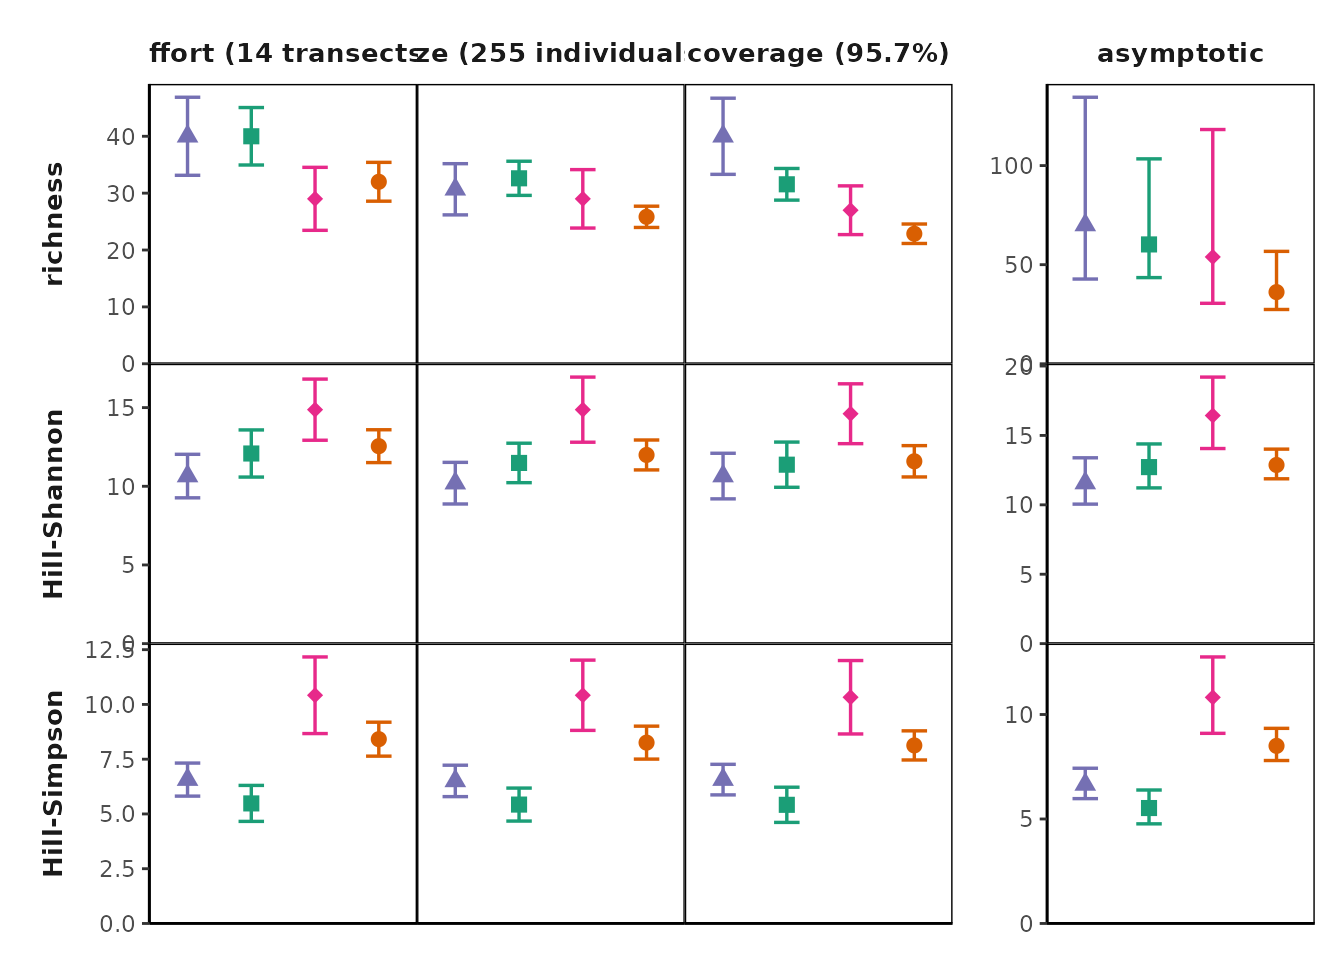
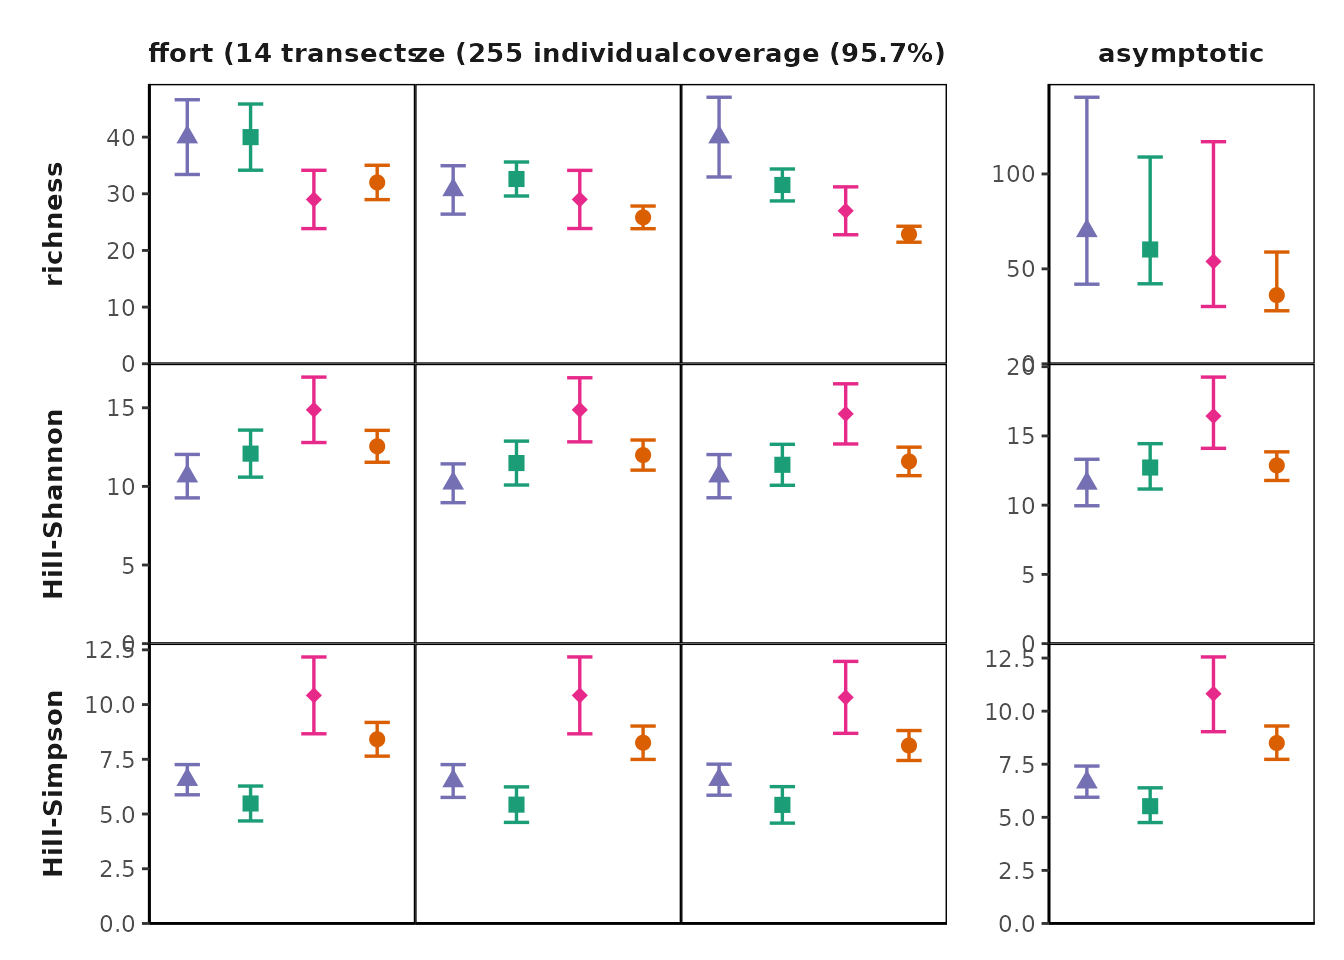
Built site for MeanRarity: 0.0.1.0003@71b6fa0

diff --git a/articles/Using_MeanRarity.html b/articles/Using_MeanRarity.html
@@ -303,16 +303,16 @@ fit_SAD--></p>
 <span class="va">uneven_sample</span> <span class="op">&lt;-</span> <span class="fu"><a href="../reference/sample_infinite.html">sample_infinite</a></span><span class="op">(</span><span class="va">uneven_SAD</span><span class="op">$</span><span class="va">rel_abundances</span>, <span class="fl">50</span><span class="op">)</span>
 <span class="co">#sample_infinite returns a numeric vector of sample species abundances</span>
 <span class="va">even_sample</span>
-<span class="co">#&gt;  [1] 8 6 5 3 3 3 5 2 5 1 2 2 1 2 2 0 0 0 0 0</span>
+<span class="co">#&gt;  [1] 11  5  8  3  4  1  0  3  3  2  1  1  1  0  0  1  1  2  1  2</span>
 <span class="va">uneven_sample</span>
-<span class="co">#&gt;  [1] 16  7  7 11  3  0  0  0  1  1  1  2  0  1  0  0  0  0  0  0</span>
+<span class="co">#&gt;  [1] 13 13  4  5  1  3  0  5  0  3  0  0  1  0  2  0  0  0  0  0</span>
 
 <span class="co"># we can compare evenness (given a scaling parameter `l`)</span>
 <span class="co"># the evenness is the normalized ratio of an arbitrary Hill diversity to richness</span>
 <span class="fu"><a href="../reference/e3Fun.html">e3Fun</a></span><span class="op">(</span><span class="va">even_sample</span>, <span class="op">-</span><span class="fl">1</span><span class="op">)</span>
-<span class="co">#&gt; [1] 0.7257653</span>
+<span class="co">#&gt; [1] 0.5119485</span>
 <span class="fu"><a href="../reference/e3Fun.html">e3Fun</a></span><span class="op">(</span><span class="va">uneven_sample</span>, <span class="op">-</span><span class="fl">1</span><span class="op">)</span>
-<span class="co">#&gt; [1] 0.4534779</span>
+<span class="co">#&gt; [1] 0.5379024</span>
 
 <span class="co"># compare diversity from sample vs. ideal SAD:</span>
 <span class="co"># likely pretty far off for a small sample!</span>
@@ -325,7 +325,7 @@ fit_SAD--></p>
   <span class="fu"><a href="../reference/rarity.html">rarity</a></span><span class="op">(</span><span class="va">even_sample</span>, <span class="va">l</span><span class="op">)</span>
 <span class="op">}</span><span class="op">)</span><span class="op">)</span>
 <span class="co">#&gt;      [,1] [,2]     [,3]    </span>
-<span class="co">#&gt; [1,] 15   12.74438 11.16071</span>
+<span class="co">#&gt; [1,] 17   12.17032 9.191176</span>
 
 <span class="co"># with an uneven SAD, sample Hill-Simpson can be higher than true Hill-Simpson</span>
 <span class="co"># richness is always lower</span>
@@ -336,7 +336,7 @@ fit_SAD--></p>
   <span class="fu"><a href="../reference/rarity.html">rarity</a></span><span class="op">(</span><span class="va">uneven_sample</span>, <span class="va">l</span><span class="op">)</span>
 <span class="op">}</span><span class="op">)</span><span class="op">)</span>
 <span class="co">#&gt;      [,1] [,2]     [,3]    </span>
-<span class="co">#&gt; [1,] 10   6.415777 5.081301</span>
+<span class="co">#&gt; [1,] 10   7.285593 5.841121</span>
 
 
 <span class="va">big_even_sample</span> <span class="op">&lt;-</span> <span class="fu"><a href="../reference/sample_infinite.html">sample_infinite</a></span><span class="op">(</span><span class="va">even_SAD</span><span class="op">$</span><span class="va">rel_abundances</span>, <span class="fl">1e7</span><span class="op">)</span>
@@ -350,7 +350,7 @@ fit_SAD--></p>
   <span class="fu"><a href="../reference/rarity.html">rarity</a></span><span class="op">(</span><span class="va">big_even_sample</span>, <span class="va">l</span><span class="op">)</span>
 <span class="op">}</span><span class="op">)</span><span class="op">)</span>
 <span class="co">#&gt;      [,1] [,2]     [,3]    </span>
-<span class="co">#&gt; [1,] 20   15.12344 12.00435</span></code></pre></div>
+<span class="co">#&gt; [1,] 20   15.11859 11.99533</span></code></pre></div>
 <p>For any distribution of relative abundances, one can ask, “what is the Hill diversity of this distribution?” Yet the answer, of course, depends on the chosen value of the scaling parameter <span class="math inline">\(\ell\)</span>. For a comprehensive answer, one might look across values of <span class="math inline">\(\ell\)</span>, also known as a Hill “diversity profile” <span class="citation">(Chao et al. 2014)</span>. <code>MeanRarity</code> provides a function to generate a Hill diversity profile based on <span class="math inline">\(\ell\)</span> (rather than <span class="math inline">\(q\)</span>): <code><a href="../reference/divpro.html">divpro()</a></code>. <!-- these should be on a single plot, will be much more interesting that way!--></p>
 <div class="sourceCode" id="cb8"><pre class="downlit sourceCode r">
 <code class="sourceCode R"><span class="co"># the even and uneven communities have same richness but different Hill diversity when `ell != 1`</span>

diff --git a/reference/Chao_Hill_abu.html b/reference/Chao_Hill_abu.html
@@ -110,11 +110,11 @@ ISSN 2041210X, doi: <a href="https://doi.org/10.1111/2041-21" class="external-li
 <span class="r-in"></span>
 <span class="r-in"><span class="co"># estimate true Hill diversity</span></span>
 <span class="r-in"><span class="fu">Chao_Hill_abu</span><span class="op">(</span><span class="va">abs</span>, l <span class="op">=</span> <span class="fl">1</span><span class="op">)</span> <span class="co"># Chao1 estimate of richness lower bound</span></span>
-<span class="r-out co"><span class="r-pr">#&gt;</span> [1] 46.94</span>
+<span class="r-out co"><span class="r-pr">#&gt;</span> [1] 40.62545</span>
 <span class="r-in"><span class="fu">Chao_Hill_abu</span><span class="op">(</span><span class="va">abs</span>, l <span class="op">=</span> <span class="fl">0</span><span class="op">)</span> <span class="co"># Asymptotic estimate of Hill-Shannon diversity</span></span>
-<span class="r-out co"><span class="r-pr">#&gt;</span> [1] 29.6443</span>
+<span class="r-out co"><span class="r-pr">#&gt;</span> [1] 35.09196</span>
 <span class="r-in"><span class="fu">Chao_Hill_abu</span><span class="op">(</span><span class="va">abs</span>, l <span class="op">=</span> <span class="op">-</span><span class="fl">1</span><span class="op">)</span> <span class="co"># Asymptotic estimate of Hill-Simpson diversity</span></span>
-<span class="r-out co"><span class="r-pr">#&gt;</span> [1] 19.53671</span>
+<span class="r-out co"><span class="r-pr">#&gt;</span> [1] 27.59259</span>
 <span class="r-in"></span>
 </code></pre></div>
     </div>

diff --git a/reference/hurl.html b/reference/hurl.html
@@ -121,7 +121,7 @@ doi: <a href="https://doi.org/10.2307/1934145" class="external-link">10.2307/193
     <h2>Examples</h2>
     <div class="sourceCode"><pre class="sourceCode r"><code><span class="r-in"><span class="va">ab</span> <span class="op">=</span> <span class="fu"><a href="https://rdrr.io/r/base/sample.html" class="external-link">sample</a></span><span class="op">(</span><span class="fl">10</span><span class="op">:</span><span class="fl">50</span>, <span class="fl">50</span>, replace <span class="op">=</span><span class="cn">TRUE</span><span class="op">)</span></span>
 <span class="r-in"><span class="fu">hurl</span><span class="op">(</span><span class="va">ab</span>, <span class="fl">2</span><span class="op">)</span></span>
-<span class="r-out co"><span class="r-pr">#&gt;</span> [1] 46.04401</span>
+<span class="r-out co"><span class="r-pr">#&gt;</span> [1] 46.03336</span>
 <span class="r-in"><span class="co"># not run</span></span>
 <span class="r-in"><span class="co"># hurl(ab, 1e5) # returns an error</span></span>
 <span class="r-in"></span>

diff --git a/reference/Chat.Ind.html b/reference/Chat.Ind.html
@@ -111,11 +111,11 @@ doi: <a href="https://doi.org/10.1890/11-1952.1" class="external-link">10.1890/1
 <span class="r-in"></span>
 <span class="r-in"><span class="co"># estimate coverage of sample</span></span>
 <span class="r-in"><span class="fu">Chat.Ind</span><span class="op">(</span><span class="va">abs</span><span class="op">)</span></span>
-<span class="r-out co"><span class="r-pr">#&gt;</span> [1] 0.9343034</span>
+<span class="r-out co"><span class="r-pr">#&gt;</span> [1] 0.9070232</span>
 <span class="r-in"></span>
 <span class="r-in"><span class="co"># estimate coverage under rarefaction</span></span>
 <span class="r-in"><span class="fu">Chat.Ind</span><span class="op">(</span><span class="va">abs</span>, m <span class="op">=</span> <span class="fl">100</span><span class="op">)</span></span>
-<span class="r-out co"><span class="r-pr">#&gt;</span> [1] 0.8670753</span>
+<span class="r-out co"><span class="r-pr">#&gt;</span> [1] 0.8650806</span>
 </code></pre></div>
     </div>
   </div>

diff --git a/reference/sample_finite.html b/reference/sample_finite.html
@@ -91,7 +91,7 @@ scalar</p></dd>
     <div id="ref-examples">
     <h2>Examples</h2>
     <div class="sourceCode"><pre class="sourceCode r"><code><span class="r-in"><span class="fu">sample_finite</span><span class="op">(</span><span class="fl">1</span><span class="op">:</span><span class="fl">9</span>, <span class="fl">15</span><span class="op">)</span></span>
-<span class="r-out co"><span class="r-pr">#&gt;</span> [1] 0 1 0 2 1 3 4 2 2</span>
+<span class="r-out co"><span class="r-pr">#&gt;</span> [1] 1 1 1 0 2 2 2 2 4</span>
 </code></pre></div>
     </div>
   </div>
